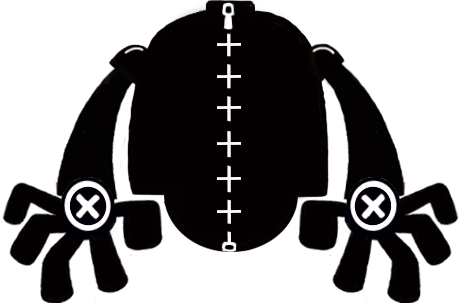
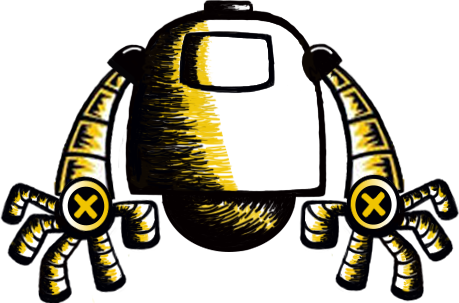
add personal face image.

diff --git a/public/js/game/shop.js b/public/js/game/shop.js
@@ -97,6 +97,10 @@
                 user_look[i].attr('itemId', init_equip[types[i]][0] );
                 user_look[i].attr('src', init_equip[types[i]][1] );
             }
+            user_look[1].css({
+                top: disply_item_data[user_look[0].attr('itemId')-1]['face_middle_y']/2 - 35 + 'px',
+                left: disply_item_data[user_look[0].attr('itemId')-1]['face_middle_x']/2 + 17 + 'px'
+            });
         });
 
         $('#gameShopItems').jScrollPane();

diff --git a/app/controllers/GameshopController.php b/app/controllers/GameshopController.php
@@ -17,6 +17,9 @@ class GameshopController extends BaseController {
 		$EquipItem[3] = Gameitem::where('id', '=', $user->foot)->firstOrFail();
 		$EquipItem[4] = Gameitem::where('id', '=', $user->item)->firstOrFail();
 		$EquipItem[5] = Gameitem::where('id', '=', $user->map)->firstOrFail();
+		
+		$this->createPersonImage();
+
 		return View::make('game.shop', array('user' => $user, 'name' => $name->name, 'shop' => $shop,
 						 'hadBuyItems'=>$hadBuyItems->toArray(), 'EquipItem' => $EquipItem));
 	}
@@ -88,5 +91,40 @@ class GameshopController extends BaseController {
 		$gameUser->save();
 		$data = array('user'=>$gameUser->toArray(), 'isBuy'=>$isBuy);
 		return Response::json($data);
+	}
+
+	public function createPersonImage() {
+		$user = Game::where('user_id', '=', Auth::user()['id'])->firstOrFail();
+		$EquipItem[0] = Gameitem::where('id', '=', $user->head)->firstOrFail();
+		$EquipItem[1] = Gameitem::where('id', '=', $user->face)->firstOrFail();
+		$EquipItem[2] = Gameitem::where('id', '=', $user->body)->firstOrFail();
+		$EquipItem[3] = Gameitem::where('id', '=', $user->foot)->firstOrFail();
+		$EquipItem[4] = Gameitem::where('id', '=', $user->item)->firstOrFail();
+		$EquipItem[5] = Gameitem::where('id', '=', $user->map)->firstOrFail();
+
+		$im    = imagecreatetruecolor(510,600);//创建一的真彩色图像
+		$white = imagecolorallocatealpha($im, 255, 255, 255,127);//透明背景
+		imagefill ($im, 0, 0, $white);
+		$bg = imagecolorallocate($im, 0, 0, 0);//为一幅图像分配颜色
+		ImageColorTransparent ($im,$bg);
+
+		$headImage = imagecreatefrompng(asset('images/gameShop/' . $EquipItem[0]->picture));
+		imagecopy( $im, $headImage, 114, 0, 0, 0, 289, 289);
+		$faceImage = imagecreatefrompng(asset('images/gameShop/' . $EquipItem[1]->picture));
+		imagecopy( $im, $faceImage, 37 + $EquipItem[0]->face_middle_x, $EquipItem[0]->face_middle_y - 70, 0, 0, 156, 137);
+		$bodyImage = imagecreatefrompng(asset('images/gameShop/' . $EquipItem[2]->picture));
+		imagecopy( $im, $bodyImage, 32, 270, 0, 0, 459, 303);
+		$footImage = imagecreatefrompng(asset('images/gameShop/' . $EquipItem[3]->picture));
+		imagecopy( $im, $footImage, 158, 518, 0, 0, 215, 102);
+		/*$itemImage = imagecreatefrompng(asset('images/gameShop/' . $EquipItem[4]->picture));
+		imagecopy($im,$itemImage,114,0,0,0,136,193);*/
+		/*$mapImage = imagecreatefrompng(asset('images/gameShop/' . $EquipItem[5]->picture));
+		imagecopy($im,$mapImage,114,0,0,0,156,137);*/
+		imagepng($im, 'img/person/' . Auth::user()['id'] . '.png');
+		imagedestroy($im);
+		imagedestroy($headImage);
+		imagedestroy($faceImage);
+		imagedestroy($bodyImage);
+		imagedestroy($footImage);
 	}
 }
